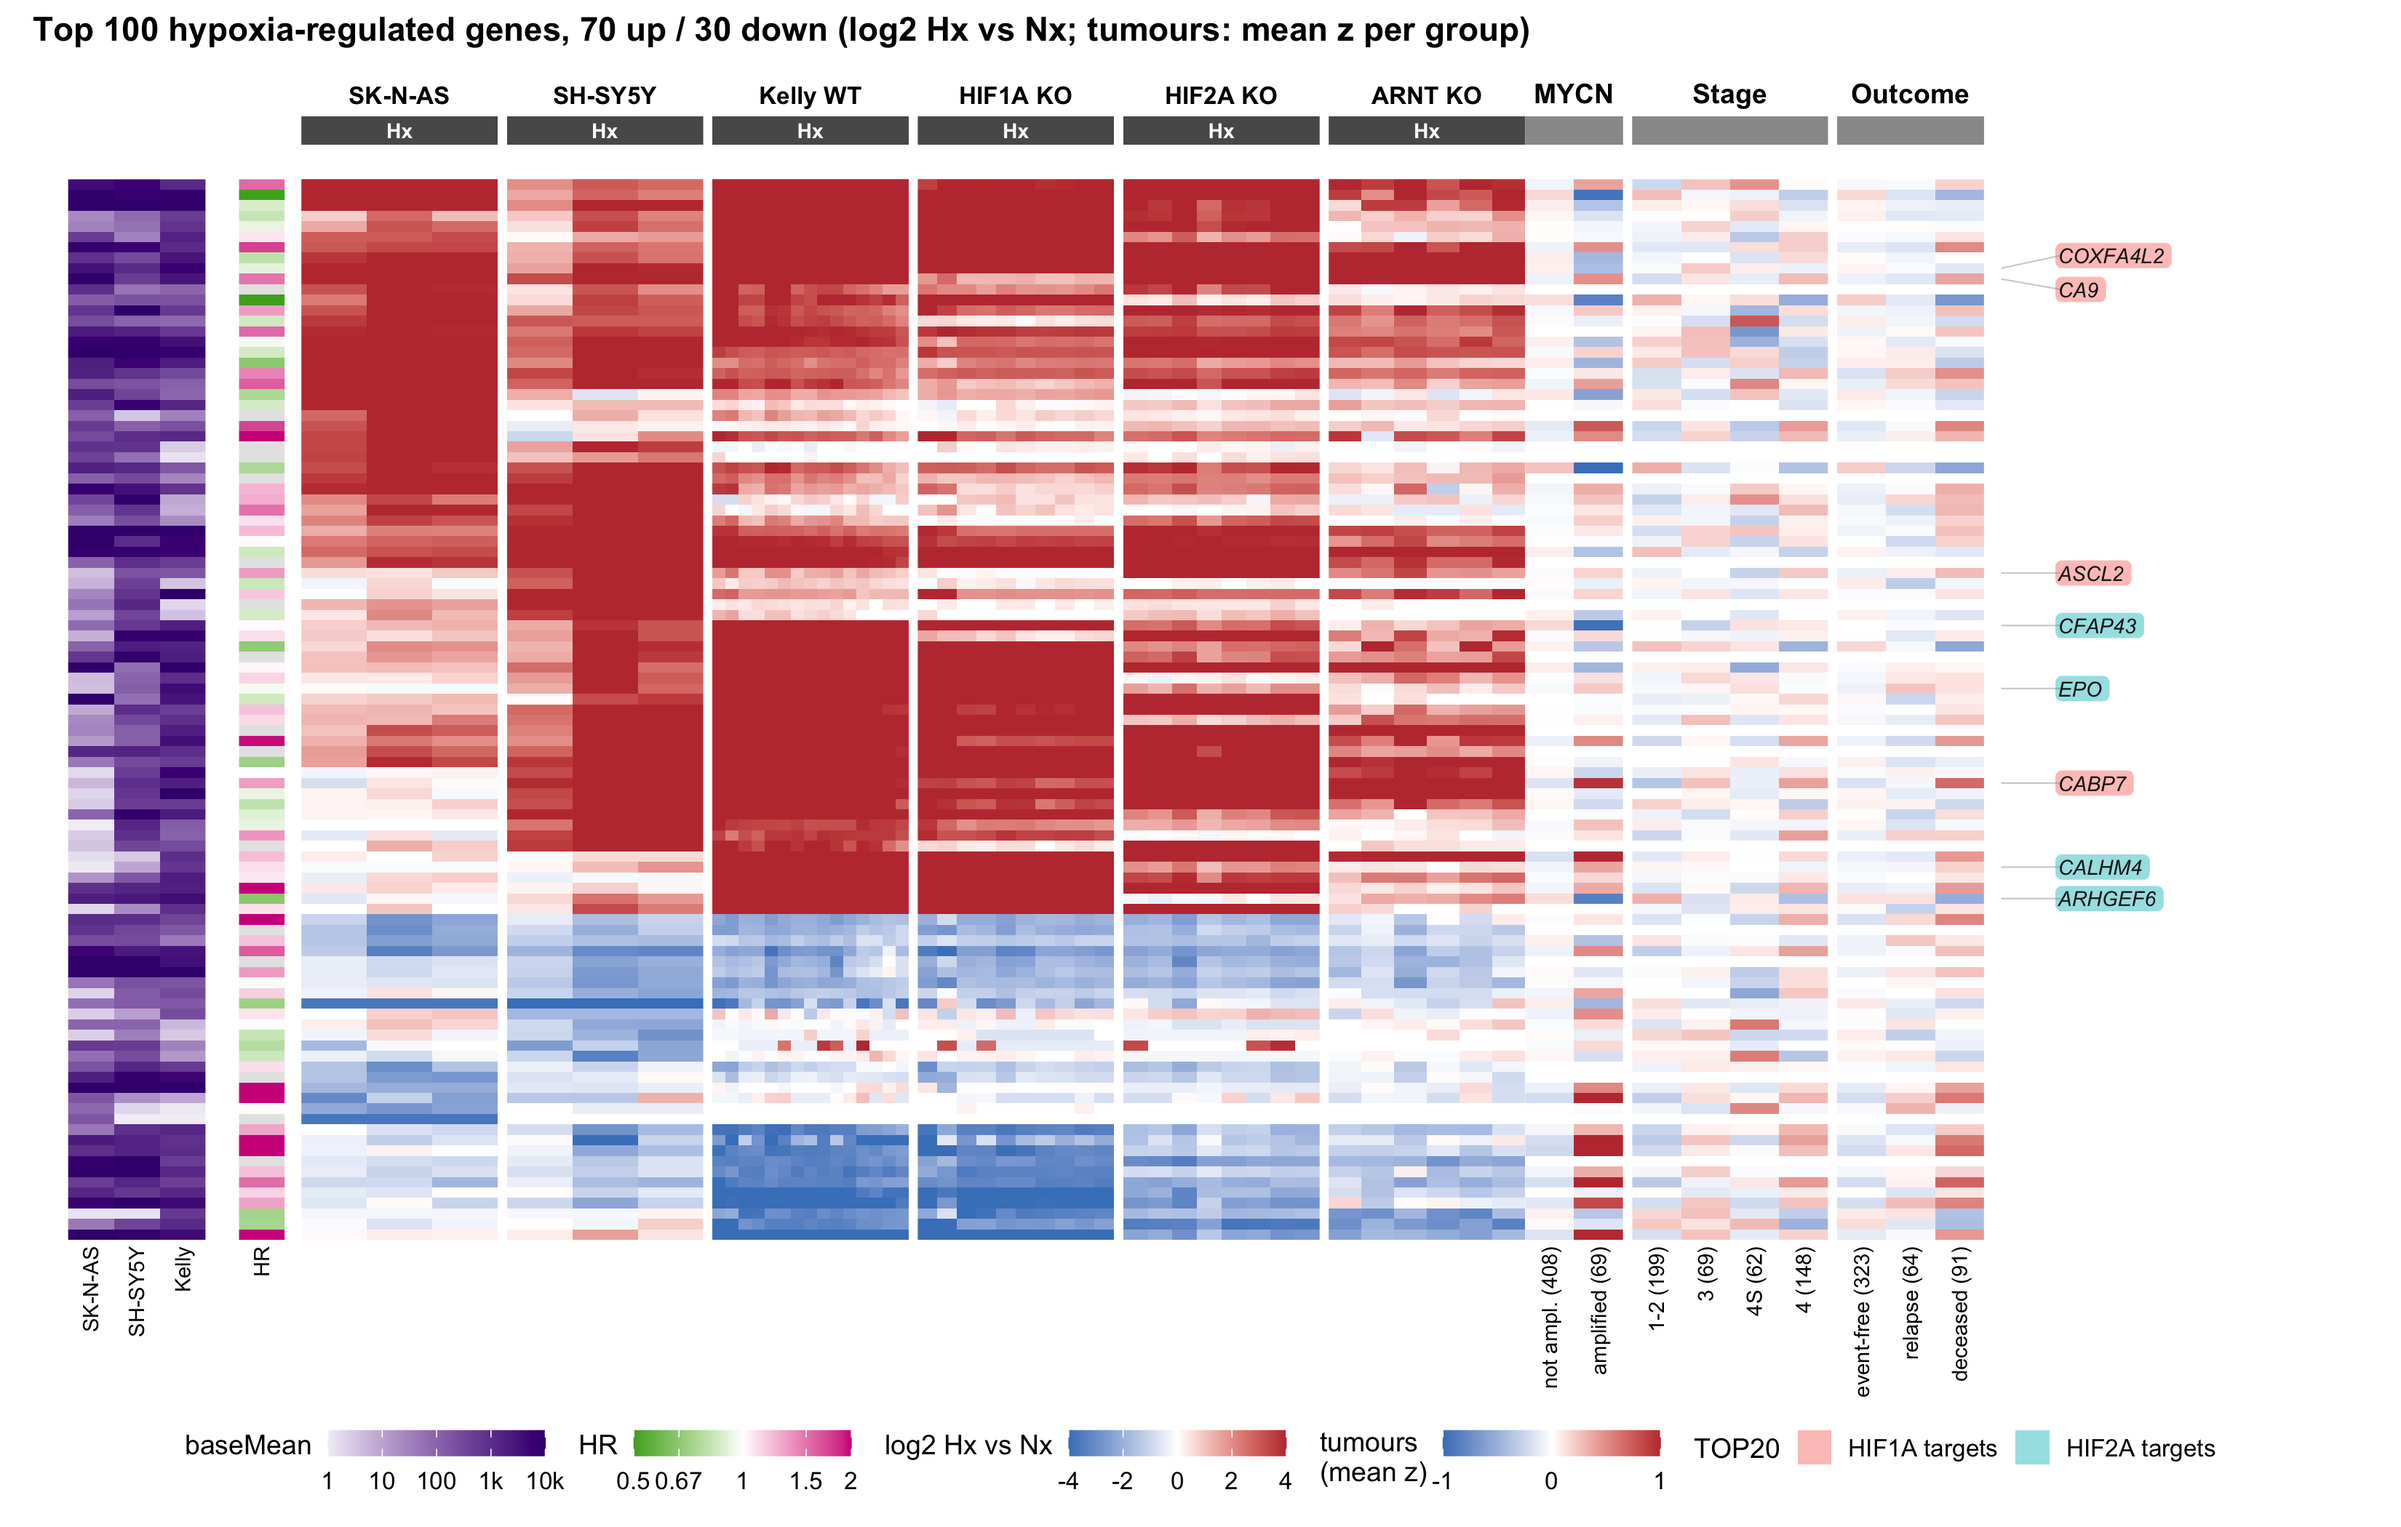
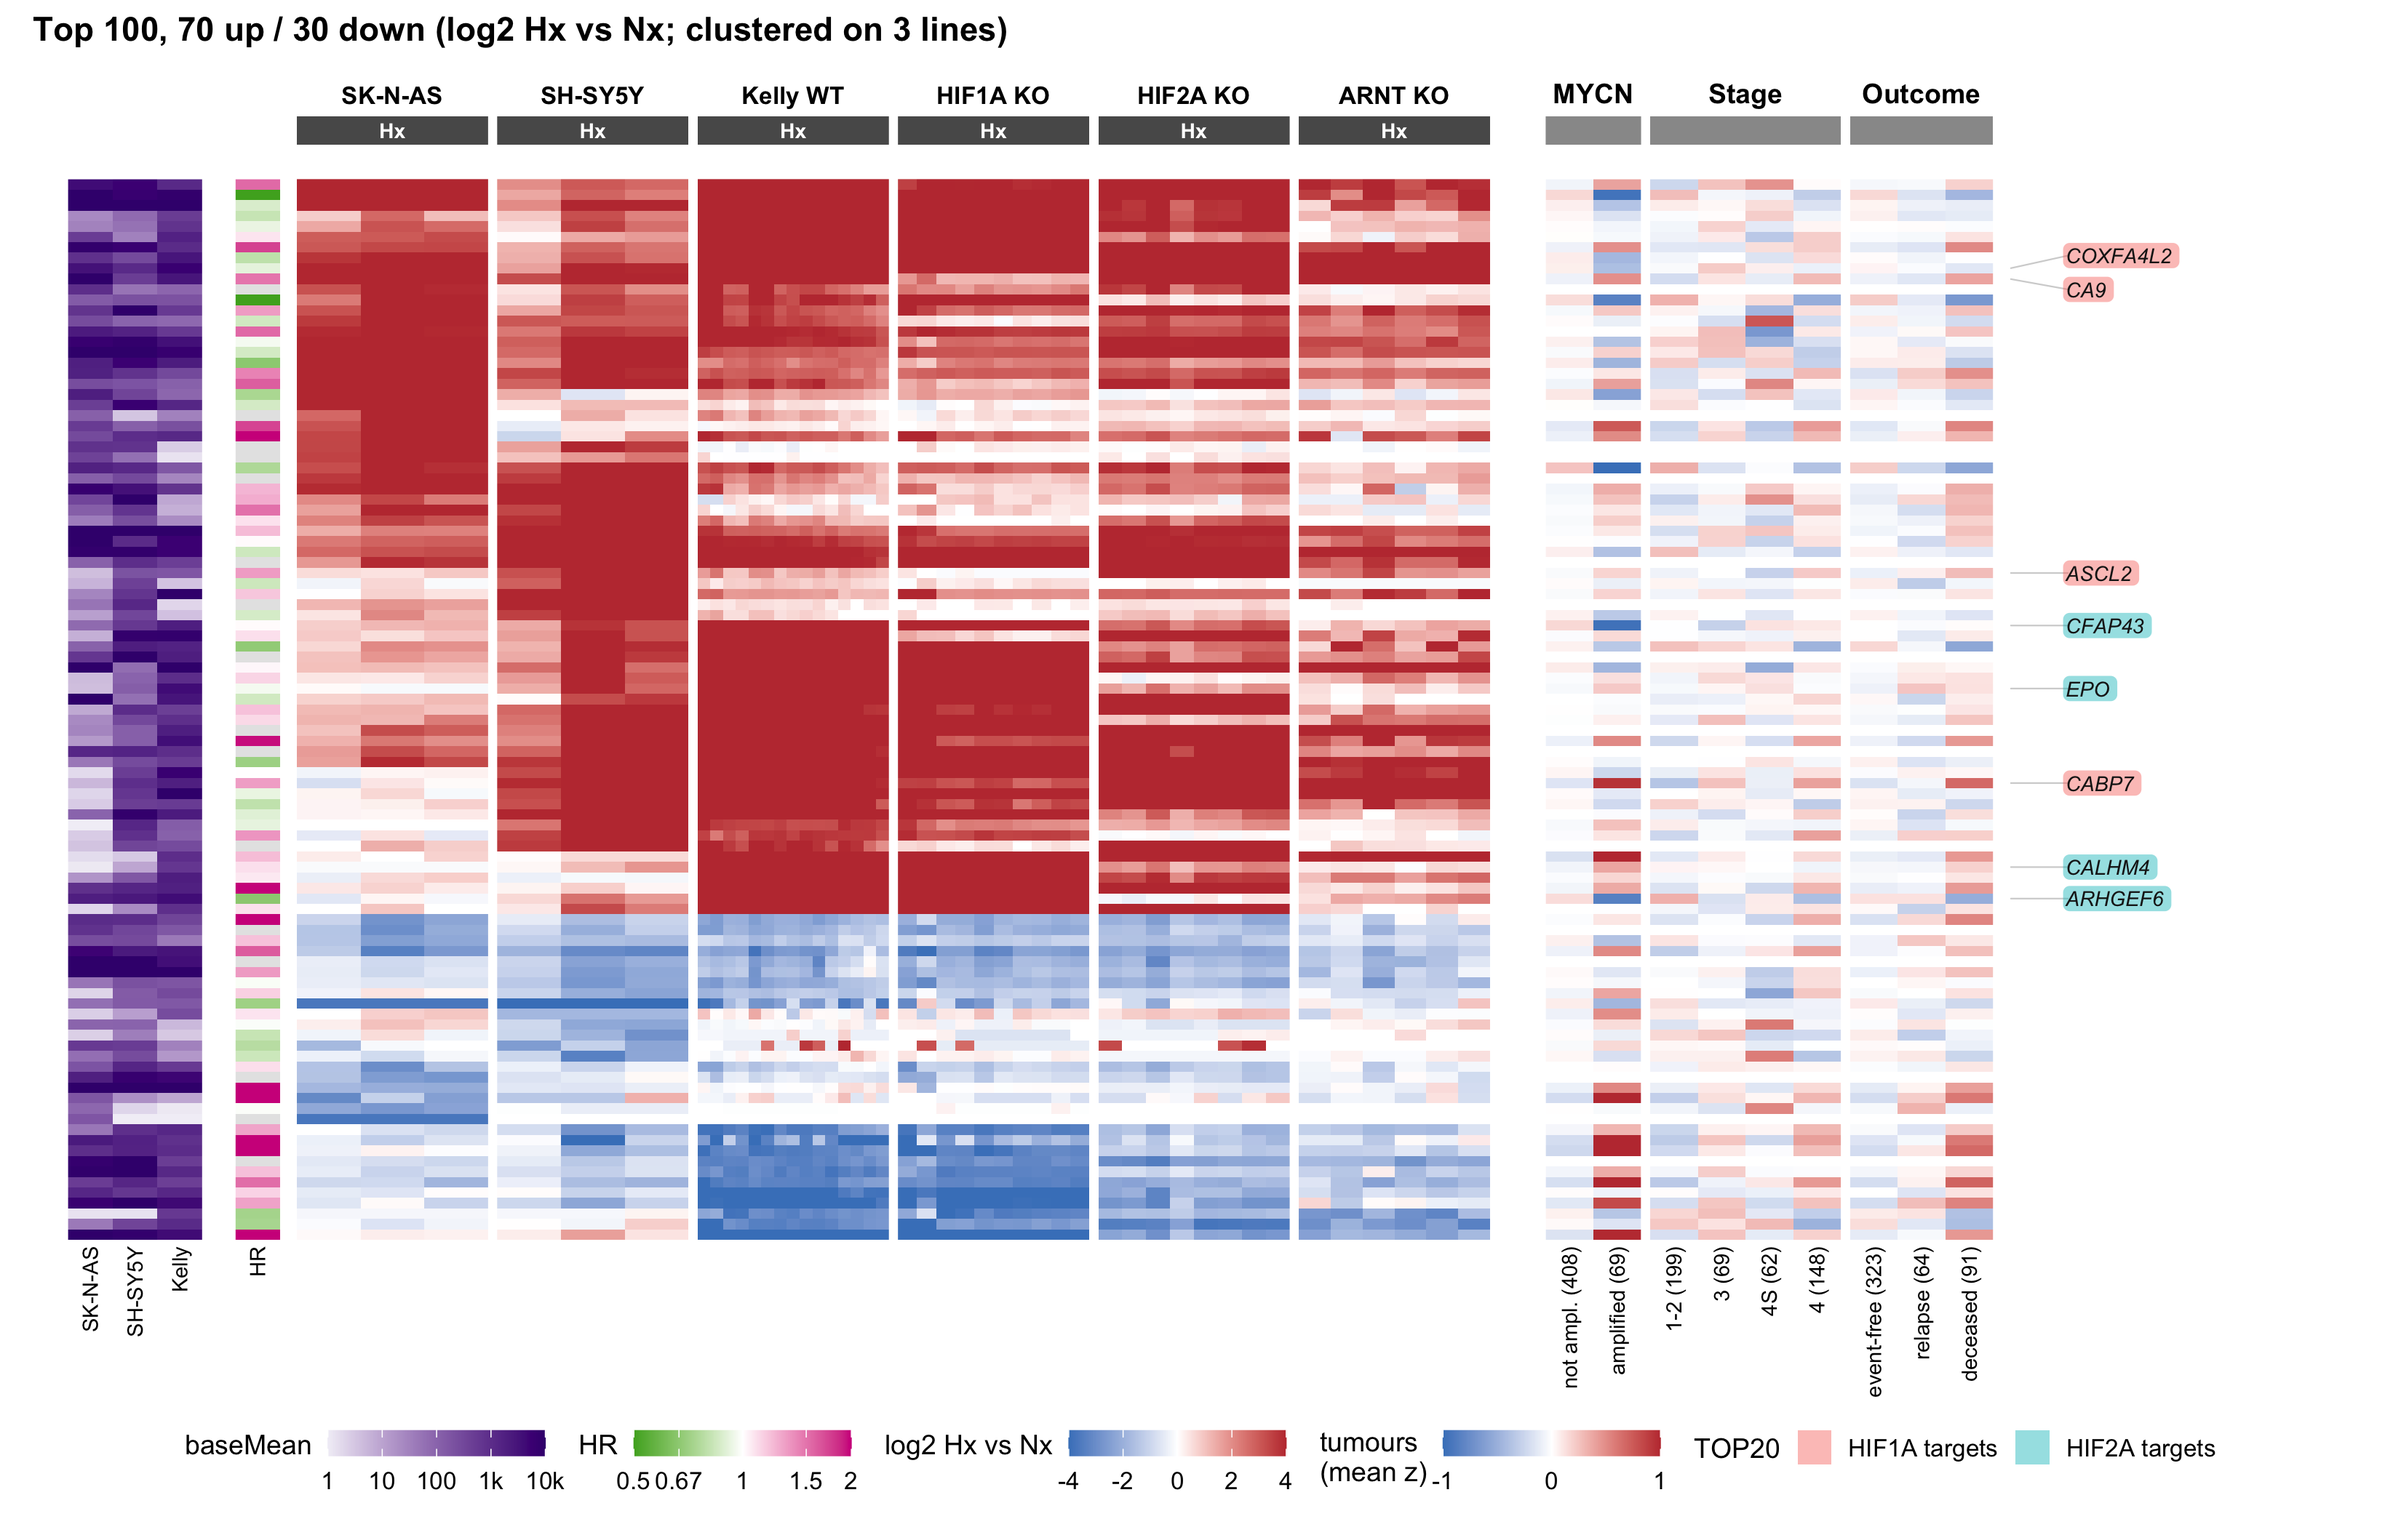
Side-by-side heatmap comparisons: scaling, clustering, top 100 vs 1000

diff --git a/6_XM_data_merge/Dive.md b/6_XM_data_merge/Dive.md
@@ -642,6 +642,9 @@ top20 <- dplyr::bind_rows(
 # Hypoxia response per gene and line: mean of the Hx samples, i.e. log2 vs Nx.
 hx_resp <- sapply(hm_lines, function(l)
   rowMeans(hm$mat[, hm$cols$line == l & hm$cols$condition == "Hx"]))
+# Same for all six panels (incl. the KOs), for the alternative row clustering.
+hx_resp_all <- sapply(hm_panels, function(l)
+  rowMeans(hm$mat[, hm$cols$line == l & hm$cols$condition == "Hx"]))
 
 # All HIF targets from the Target column, as HIF1A / both / HIF2A row groups.
 in_hm <- master %>%
@@ -694,6 +697,7 @@ hx_top_dir <- function(n, dir) {
 hx100_up   <- hx_top_dir(70, 1)
 hx100_down <- setdiff(hx_top_dir(30, -1), hx100_up)
 hx100      <- c(hx100_up, hx100_down)
+hx1000     <- union(hx_top_dir(700, 1), hx_top_dir(300, -1))
 
 # Per-line z-score: every gene scaled to mean 0 / sd 1 within each line.
 hm_z <- hm$mat
@@ -784,7 +788,7 @@ hr_vals <- in_hm %>% dplyr::select(Ensembl, HR, p_value_HR)
 # would let the 31 Kelly WT and the KO samples decide. Done separately within
 # each group when `split` is given (named vector Ensembl -> group). Returns y
 # positions with a small gap between groups.
-hm_rows <- function(ens, split = NULL) {
+hm_rows <- function(ens, split = NULL, resp = hx_resp) {
   if (is.null(split)) split <- setNames(rep("all", length(ens)), ens)
   grp <- ifelse(ens %in% names(split), split[ens], "other")
   lv  <- intersect(c(names(grp_cols), "all"), unique(grp))
@@ -792,7 +796,7 @@ hm_rows <- function(ens, split = NULL) {
   y <- c(); off <- 0
   for (g in lv) {
     e <- ens[grp == g]
-    if (length(e) > 1) e <- e[hclust(dist(hx_resp[e, , drop = FALSE]), method = "ward.D2")$order]
+    if (length(e) > 1) e <- e[hclust(dist(resp[e, , drop = FALSE]), method = "ward.D2")$order]
     y   <- c(y, setNames(off + seq_along(e), e))
     off <- off + length(e) + gap
   }
@@ -960,11 +964,12 @@ hx_heatmap <- function(ens, mat = hm$mat, lim = 4, split = NULL, rows = NULL,
     scale_x_continuous(limits = c(0, 1.6), expand = c(0, 0)) + yscale +
     theme_void()
 
-  plot_spacer() + plot_spacer() + plot_spacer() + p_cond + p_tum_top + plot_spacer() +
-    p_grp + p_bm + p_hr + p_main + p_tum + p_lab +
-    plot_layout(ncol = 6,
+  plot_spacer() + plot_spacer() + plot_spacer() + p_cond + plot_spacer() + p_tum_top + plot_spacer() +
+    p_grp + p_bm + p_hr + p_main + plot_spacer() + p_tum + p_lab +
+    plot_layout(ncol = 7,
                 widths = c(if (is.null(split)) 0.01 else 0.35, 0.9, 0.3,
-                           if (nx) 13 else 8, if (tumours) 3 else 0.01, 2.4),
+                           if (nx) 13 else 8, if (tumours) 0.15 else 0.01,
+                           if (tumours) 3 else 0.01, 2.4),
                 heights = c(0.35, 12), guides = "collect") +
     plot_annotation(title = title) &
     theme(legend.position = "bottom", legend.text = element_text(size = 8),
@@ -1002,7 +1007,7 @@ hx_heatmap(character(0), title = "CUT&RUN TOP20 HIF1A / HIF2A targets (log2 Hx v
 
 </details>
 
-![](Dive_files/figure-gfm/hx_heatmap_top20-1.png)<!-- -->
+<img src="Dive_files/figure-gfm/hx_heatmap_top20-1.png" width="40%" />
 
 All 40 genes are readable. The KO columns confirm the assignment: the
 HIF2A TOP20 lose their induction in the HIF2A KO (median Hx response 0.3
@@ -1058,7 +1063,7 @@ hx_heatmap(names(targets), split = targets,
 
 </details>
 
-![](Dive_files/figure-gfm/hx_heatmap_targets-1.png)<!-- -->
+<img src="Dive_files/figure-gfm/hx_heatmap_targets-1.png" width="40%" />
 
 The split makes the difference between the two arms obvious. The HIF2A
 block - three quarters of all targets - is induced in Kelly WT and the
@@ -1117,7 +1122,7 @@ hx_heatmap(hx500, rows = hx_rows_500, tumours = TRUE,
 
 </details>
 
-![](Dive_files/figure-gfm/hx_heatmap_hx500-1.png)<!-- -->
+<img src="Dive_files/figure-gfm/hx_heatmap_hx500-1.png" width="40%" />
 
 **Tumour hypoxia score (median of the mean signed z of the shown genes)
 per clinical group; p for the overall score**
@@ -1175,7 +1180,7 @@ hx_heatmap(hx500, mat = hm_z, lim = 2, rows = hx_rows_500, fill_name = "z-score"
 
 </details>
 
-![](Dive_files/figure-gfm/hx_heatmap_hx500_z-1.png)<!-- -->
+<img src="Dive_files/figure-gfm/hx_heatmap_hx500_z-1.png" width="40%" />
 
 ## 5. Top 100 hypoxia-regulated genes, 70 up / 30 down (log2 Hx vs Nx)
 
@@ -1185,6 +1190,13 @@ selection runs separately for induced and repressed genes: 70 up and 31
 down, roughly the up/down ratio of all hypoxia DEGs. The TOP20 are
 labelled only where they are part of this set.
 
+This set is the basis for the comparisons below: each shows two versions
+side by side, the base version (log2 Hx vs Nx, rows clustered on the
+three cell lines, top 100) always on the left. Click an image to enlarge
+it.
+
+### 5a. Scaling: log2 Hx vs Nx (left) vs z-score per line (right)
+
 <details>
 
 <summary>
@@ -1193,13 +1205,63 @@ Code
 </summary>
 
 ``` r
-hx_heatmap(hx100, rows = hm_rows(hx100), tumours = TRUE,
-           title = "Top 100 hypoxia-regulated genes, 70 up / 30 down (log2 Hx vs Nx; tumours: mean z per group)")
+hx_rows_100 <- hm_rows(hx100)
+hx_heatmap(hx100, rows = hx_rows_100, tumours = TRUE,
+           title = "Top 100, 70 up / 30 down (log2 Hx vs Nx; clustered on 3 lines)")
+hx_heatmap(hx100, mat = hm_z, lim = 2, rows = hx_rows_100, fill_name = "z-score",
+           nx = TRUE, tumours = TRUE,
+           title = "Top 100, 70 up / 30 down (z-score per line; clustered on 3 lines)")
 ```
 
 </details>
 
-![](Dive_files/figure-gfm/hx_heatmap_hx100-1.png)<!-- -->
+<img src="Dive_files/figure-gfm/hx_heatmap_hx100-1.png" width="49%" /><img src="Dive_files/figure-gfm/hx_heatmap_hx100-2.png" width="49%" />
+
+### 5b. Row clustering: 3 cell lines (left) vs all 6 panels incl. KOs (right)
+
+Left, rows are clustered on the mean Hx response of SK-N-AS, SH-SY5Y and
+Kelly WT only; right, on all six panels, so the KO responses also shape
+the blocks (genes that lose their response in one KO group together).
+
+<details>
+
+<summary>
+
+Code
+</summary>
+
+``` r
+hx_heatmap(hx100, rows = hx_rows_100, tumours = TRUE,
+           title = "Top 100, 70 up / 30 down (log2 Hx vs Nx; clustered on 3 lines)")
+hx_heatmap(hx100, rows = hm_rows(hx100, resp = hx_resp_all), tumours = TRUE,
+           title = "Top 100, 70 up / 30 down (log2 Hx vs Nx; clustered on all 6 panels)")
+```
+
+</details>
+
+<img src="Dive_files/figure-gfm/hx_heatmap_hx100_clust-1.png" width="49%" /><img src="Dive_files/figure-gfm/hx_heatmap_hx100_clust-2.png" width="49%" />
+
+### 5c. Gene number: top 100 (left) vs top 1000 (right), both 70 up / 30 down
+
+<details>
+
+<summary>
+
+Code
+</summary>
+
+``` r
+hx_heatmap(hx100, rows = hx_rows_100, tumours = TRUE,
+           title = "Top 100, 70 up / 30 down (log2 Hx vs Nx; clustered on 3 lines)")
+hx_heatmap(hx1000, rows = hm_rows(hx1000), tumours = TRUE,
+           title = "Top 1000, 70 up / 30 down (log2 Hx vs Nx; clustered on 3 lines)")
+```
+
+</details>
+
+<img src="Dive_files/figure-gfm/hx_heatmap_hx1000-1.png" width="49%" /><img src="Dive_files/figure-gfm/hx_heatmap_hx1000-2.png" width="49%" />
+
+### Tumour score
 
 **Tumour hypoxia score for the top 100 (70 up / 30 down) per clinical
 group**
@@ -1236,6 +1298,7 @@ the per-gene response with Kelly**
 | TOP20 + HIF targets | 1717 | 36 | 1.08 | 0.28 | 0.28 | 0.23 | 0.37 |
 | TOP20 + hypoxia-regulated | 519 | 23 | 2.50 | 1.35 | 1.64 | -0.14 | 0.23 |
 | TOP20 + top 100 (70 up / 30 down) | 133 | 8 | 2.66 | 0.51 | 1.71 | 0.46 | 0.56 |
+| TOP20 + top 1000 (70 up / 30 down) | 1016 | 25 | 1.07 | 0.56 | 0.60 | 0.42 | 0.62 |
 
 # Hypoxia-induced genes: protective or adverse?
 
